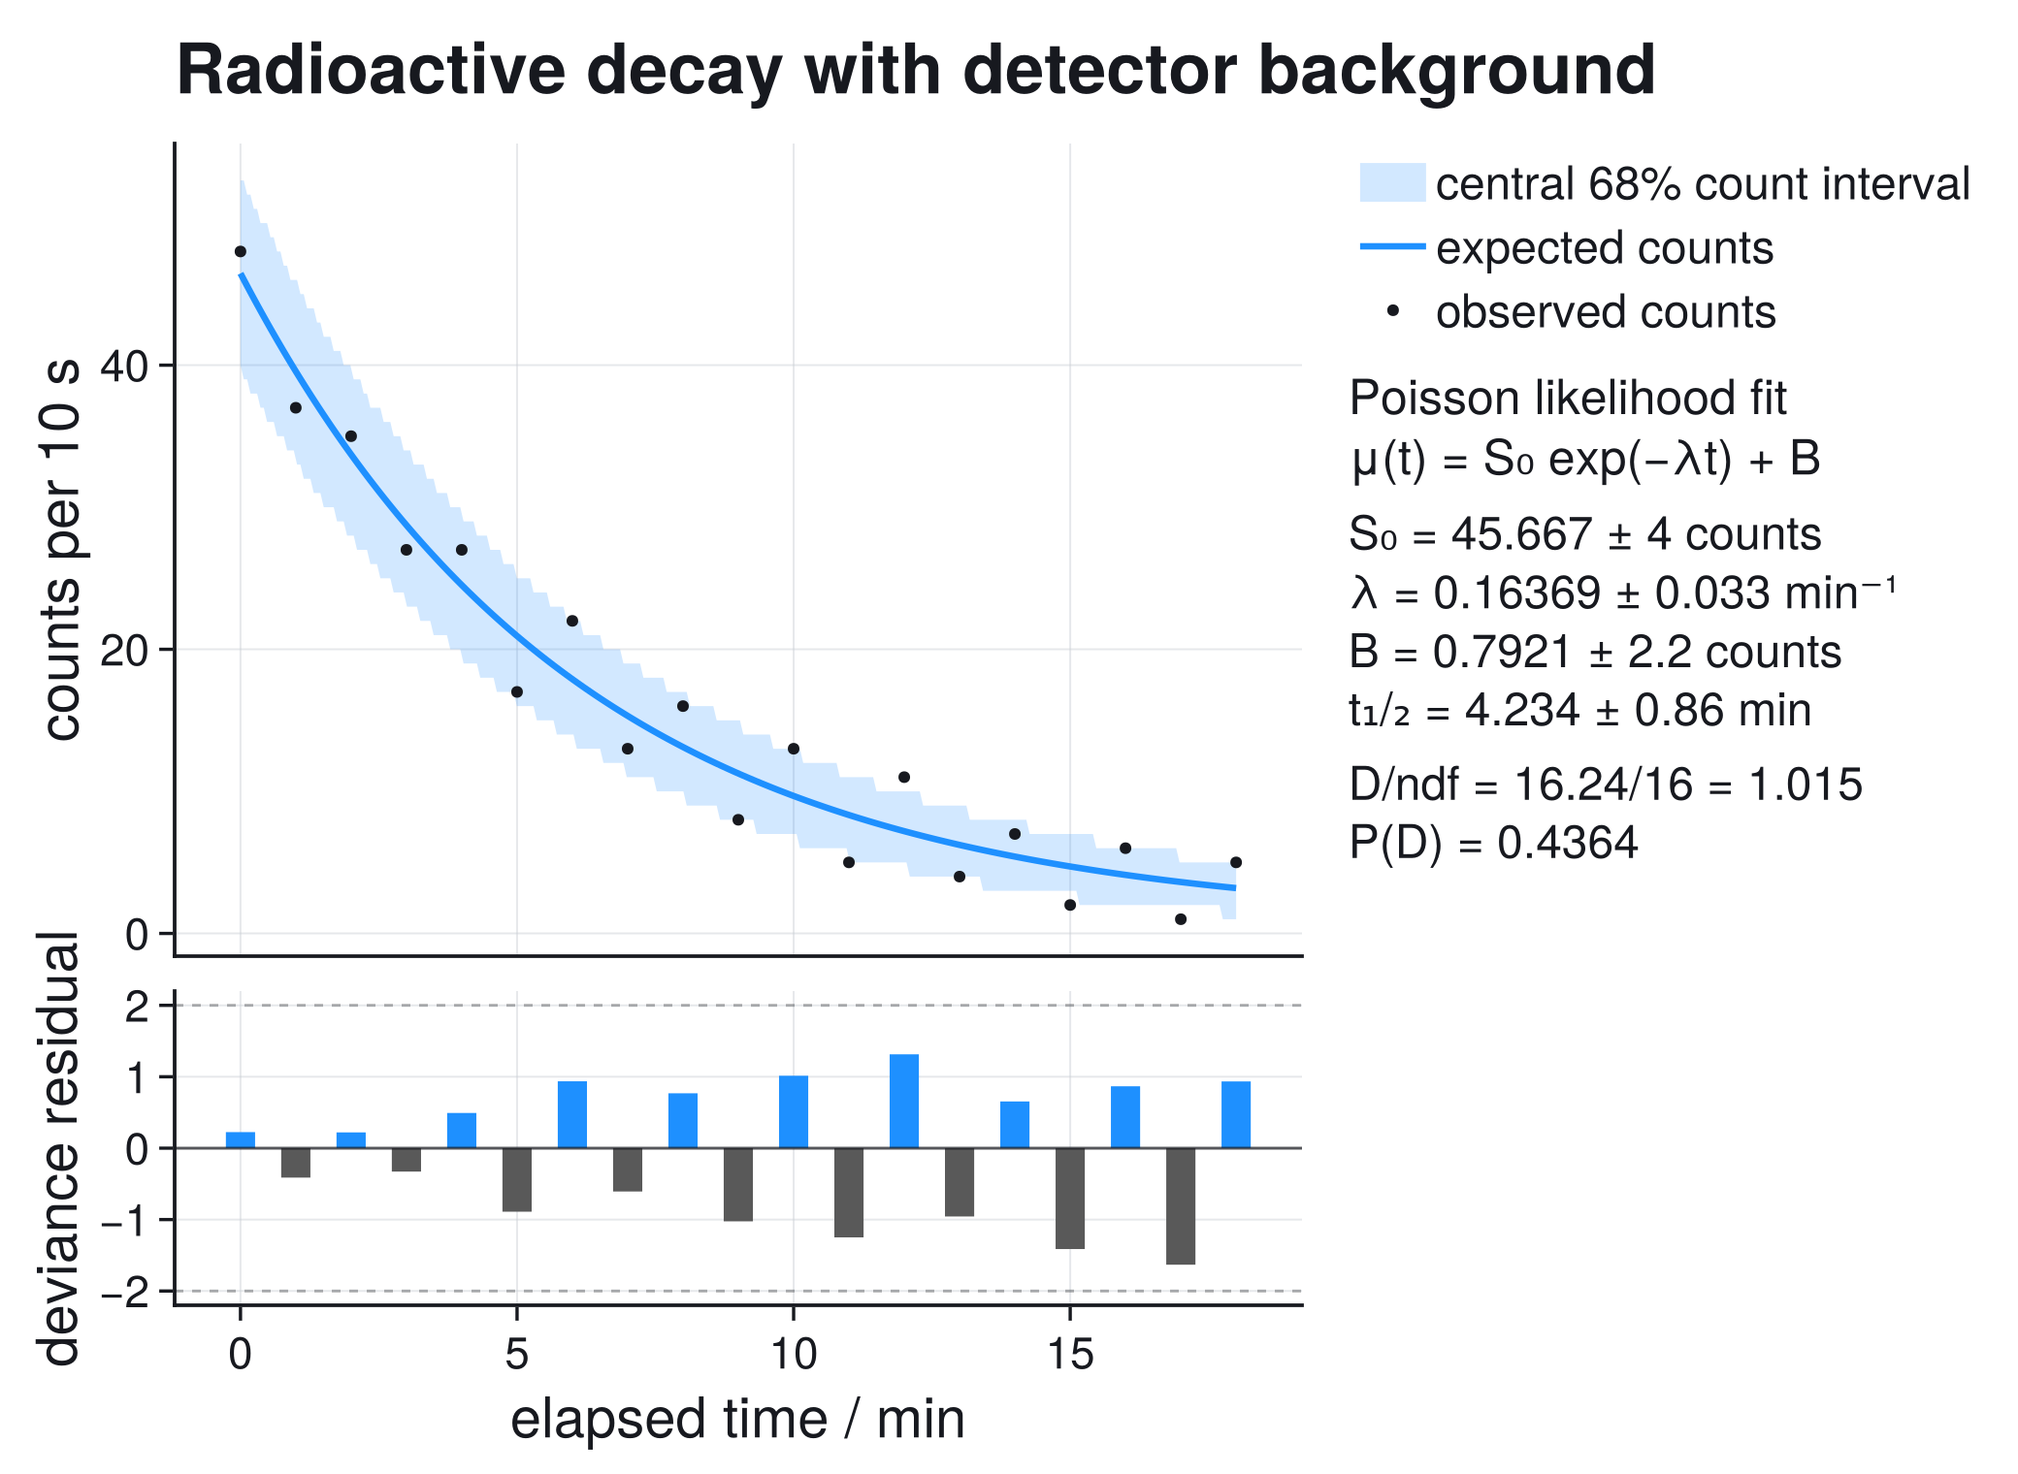
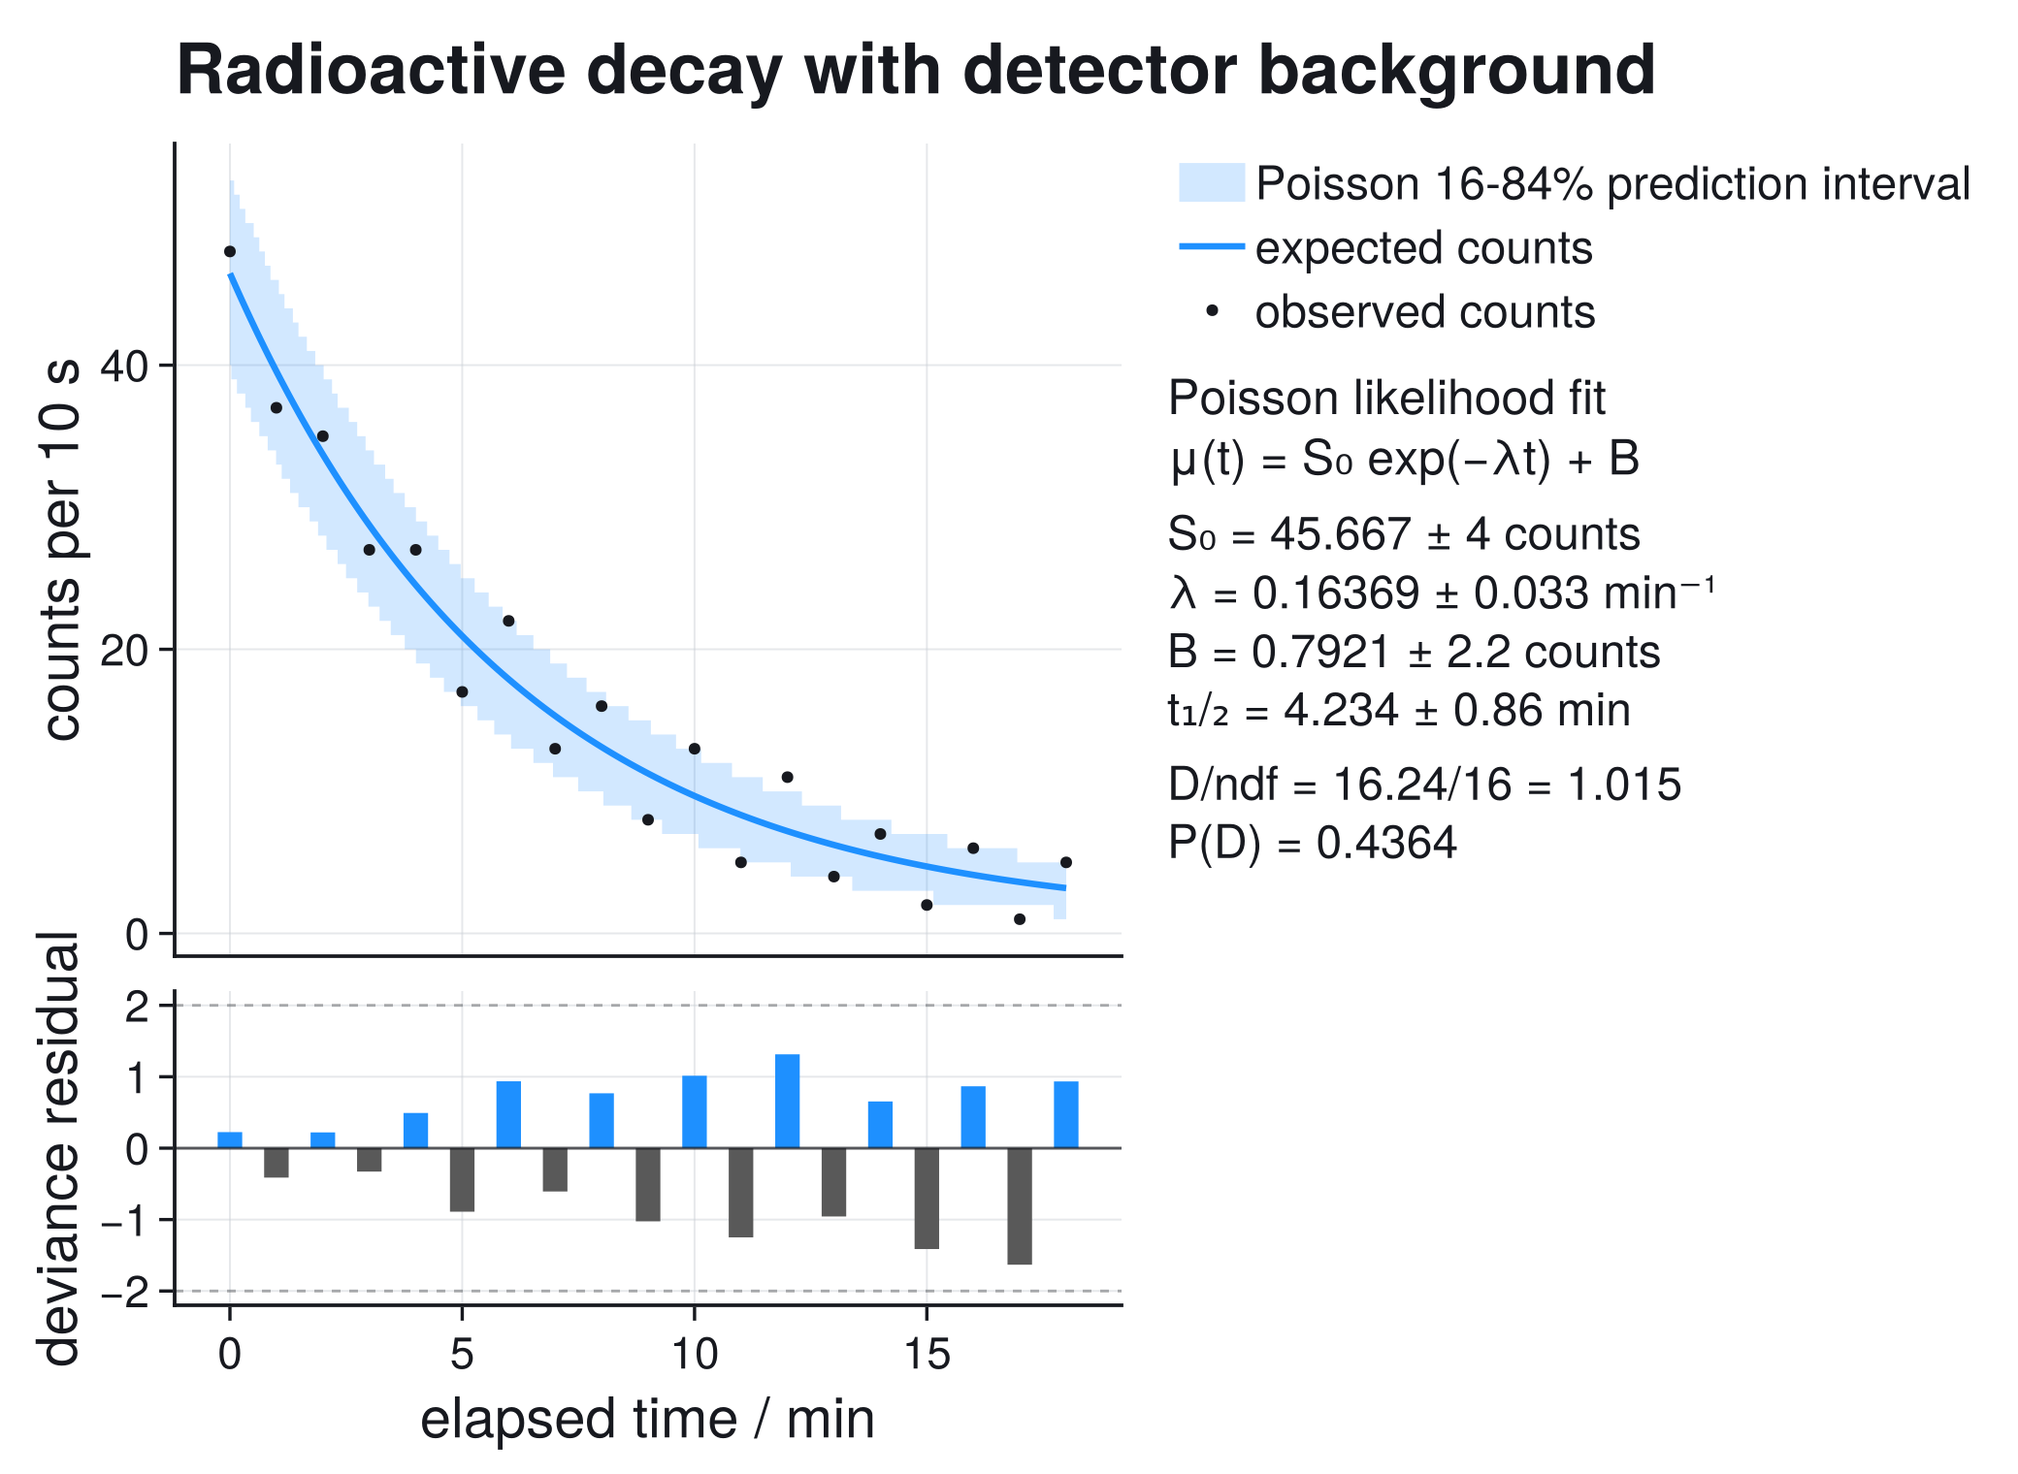
Prepare v0 documentation and release metadata

diff --git a/RELEASE_AUDIT.md b/RELEASE_AUDIT.md
@@ -10,6 +10,24 @@ Publication policy: do not push, publish, register, deploy documentation, or
 make the repository public without explicit manual approval from Amin_El_Sayed.
 Local commits on `codex/*` branches are allowed only as reviewable checkpoints.
 
+- The release-preparation slice adds the maintainer-approved MIT license,
+  contribution guidance, citation/related-work documentation, root-level
+  `CITATION.cff`, and manual GitHub Pages/TagBot workflows. Repository URL,
+  release date, and DOI remain deliberately absent until the package name and
+  target repository are approved. No remote, deployment, registration, tag, or
+  announcement has been created.
+- Every visible Quickstart and Gallery output remains byte-for-byte tied to an
+  isolated execution of its public code: the strict output gate passes 125
+  checks. The final prose/math pass corrected the frequentist degrees-of-freedom
+  wording for auxiliary measurements versus subjective priors. Documenter
+  builds without warnings, and the rendered site passes 3,209 link checks.
+- The Poisson count prediction band now uses duplicated bin boundaries, so its
+  discrete 16th/84th-percentile changes render as vertical steps rather than
+  fractional-count ramps. The page explains why late-time plateaus widen and
+  why the lower and upper quantiles jump at different times. All eight affected
+  style/panel/light-dark assets were regenerated from the real gallery script
+  and pass the 96-check byte-level visual snapshot gate.
+
 - The two maintained plot styles now use the same smaller 8.5-unit observation
   marker contract, while preserving their solid Sans and hollow TeX grammars.
   Ordinary compound-gallery plots no longer enlarge data markers locally, so
@@ -750,11 +768,14 @@ Local commits on `codex/*` branches are allowed only as reviewable checkpoints.
 - Documentation gallery PNGs now have byte-level snapshot coverage. This catches
   unintentional asset drift, but human visual review is still required for
   intentional plot style or renderer changes.
-- There is no documentation deployment workflow yet.
-- The repository still needs an explicitly chosen license and release citation
-  metadata before publication. Add the approved `LICENSE` and `CITATION.cff`
-  only after the maintainer has selected the license and reviewed the citation
-  fields; do not infer that policy from the source code.
+- A manual-only GitHub Pages workflow is prepared locally. It must not be run
+  until the target repository, final package name, and exact release candidate
+  are approved; its first deployment still requires remote observation and
+  browser review.
+- The MIT `LICENSE` and a minimal `CITATION.cff` are prepared locally. The
+  package/repository name, repository URL, release date, and DOI remain release
+  decisions and must be filled from the exact approved public release rather
+  than guessed in advance.
 - Browser screenshots can still time out on very large documentation pages.
   Use DOM/computed-style checks plus targeted static image inspection until a
   stable visual-regression workflow exists.
@@ -910,15 +931,17 @@ Local commits on `codex/*` branches are allowed only as reviewable checkpoints.
 
 ## CI And Packaging Blockers
 
-- Choose and add the release license and `CITATION.cff`; verify package name,
-  UUID, authorship, repository URL, and version metadata against the exact
-  repository that will be registered.
+- Approve the final package/repository name, then verify the existing MIT
+  license, `CITATION.cff`, UUID, authorship, repository URL, and version metadata
+  against the exact repository that will be registered.
 - Julia 1.10 is the intentional support floor. Local Julia 1.10 evidence covers
   the earlier 432-check core gate and 501-check full package suite plus the
   current 18-check in-place and 35-check structured-whitening reference slices;
   confirm the complete current 1.10/1.12 core and package matrix on GitHub
   Actions after pushing.
-- Add a docs-deploy job for GitHub Pages or the chosen static host.
+- Observe the prepared manual GitHub Pages workflow on the approved target
+  repository and review the deployed site before enabling any automatic update
+  trigger.
 - Confirm the new core/package/docs CI lanes on GitHub Actions after pushing.
 - Run the Python interoperability release gate in CI. The local opt-in gate now
   passes in an isolated `juliacall` environment, but public release claims need

diff --git a/RELEASE_CHECKLIST.md b/RELEASE_CHECKLIST.md
@@ -164,3 +164,35 @@ Before public promotion:
   `Amin-El-Sayed <78275938+Amin-El-Sayed@users.noreply.github.com>`.
 - Do not register the package, publish docs, or announce on Reddit/Discourse
   until Amin_El_Sayed has manually approved the exact release candidate.
+
+After that explicit approval, perform the external steps in this order:
+
+1. Confirm the final package name before creating the repository. Renaming after
+   General registration is substantially more disruptive.
+2. Re-authenticate GitHub CLI if needed and verify that the active login is
+   exactly `Amin-El-Sayed`; do not rely on the configured Git author alone.
+3. Create the final `<PackageName>.jl` repository under `Amin-El-Sayed`, add it
+   as the first remote, and push only the reviewed release history.
+4. Observe the complete CI matrix on GitHub. Do not substitute an older local
+   run for the target repository's checks.
+5. In repository Pages settings, select GitHub Actions as the source and run the
+   manual `Documentation Pages` workflow. Verify the deployed URLs, styles,
+   plots, and mobile/desktop layout before linking them publicly.
+6. Install the Julia Registrator GitHub App, trigger `@JuliaRegistrator register`
+   on the approved release commit, and review the generated General pull
+   request. TagBot creates the corresponding tag and GitHub release after the
+   registry version is accepted; create the first tag manually if GitHub's
+   workflow-file token restriction blocks TagBot.
+7. Archive the accepted release with Zenodo, add its DOI and release date to
+   `CITATION.cff`, and verify GitHub's rendered citation before announcing it.
+8. Publish one consistent announcement first on GitHub Releases and Julia
+   Discourse's Package Announcements category. Link the registered package,
+   versioned documentation, DOI, contributor guide, and issue tracker. Let the
+   General registry's `new-packages-feed` cover Slack/Zulip automatically; use
+   `r/Julia` only after the canonical announcement is live.
+
+The announcement should state the supported workflows, Julia versions, and
+known v0 limits in plain language. Invite reproducible bug reports, real-world
+datasets that can be redistributed, documentation corrections, and focused
+contributions. Do not claim ecosystem dominance, universal robustness, or a
+portable speed factor; link reproducible benchmark methods instead.

diff --git a/docs/src/citation.md b/docs/src/citation.md
@@ -1,0 +1,50 @@
+# Citation, License, And Related Work
+
+## Cite The Exact Software Release
+
+Scientific results should identify the software version that produced them.
+JuFitter ships a root-level `CITATION.cff`; GitHub can render it as a citation
+and export BibTeX. The first archived public release should also receive a
+Zenodo DOI, which will become the preferred stable citation target.
+
+At minimum, record:
+
+- the JuFitter version or exact Git commit;
+- the Julia version;
+- the fit entry point and cost or likelihood;
+- the uncertainty, covariance, and parameter-constraint model;
+- whether reported intervals came from local covariance or profiles.
+
+This information is more useful for reproducibility than citing an unversioned
+repository homepage.
+
+## MIT License And Citation
+
+JuFitter is released under the [MIT License](https://opensource.org/license/mit).
+The license permits use, modification, and redistribution subject to preserving
+its copyright and permission notice. Academic citation is requested as
+scientific attribution, but it is not an additional license condition.
+
+## Related Work
+
+JuFitter is an independent Julia implementation. Its emphasis on readable fit
+reports, practical diagnostics, and profile-versus-local-covariance comparisons
+was informed in part by kafe2 and its documentation:
+
+- J. Gäßler, G. Quast, D. Savoiu, and C. Verstege,
+  [*kafe2 -- a Modern Tool for Model Fitting in Physics Lab Courses*](https://arxiv.org/abs/2210.12768),
+  arXiv:2210.12768 (2022).
+
+JuFitter does not contain kafe2 code. Its numerical implementation builds on
+Julia packages including LsqFit, Optimization.jl, DifferentiationInterface,
+ForwardDiff, Distributions, QuadGK, and the optional Makie plotting ecosystem.
+A publication that depends materially on a particular upstream algorithm should
+also follow that project's citation guidance; citing JuFitter does not replace
+method-specific attribution.
+
+## Software Paper
+
+A peer-reviewed software paper is useful once the public package has external
+users, a stable interface, and an open development record. Until then, a
+versioned software DOI provides an honest citation target without implying that
+the scientific and software review has already happened.

diff --git a/docs/src/gallery/poisson_histogram.md b/docs/src/gallery/poisson_histogram.md
@@ -35,19 +35,24 @@ T_{1/2} = \frac{\log 2}{\lambda}.
 ```
 
 The observed points deliberately have no ``\sqrt n`` error bars. Such bars are
-only a large-count visual approximation, become asymmetric near zero, and
-cannot represent a zero-count observation. The shaded region is instead the
-central 68% interval of future Poisson counts predicted by the fitted model. It
-is a **prediction interval for discrete observations**, not a confidence band
-for the mean curve. It is conditional on the fitted mean and does not include
-parameter uncertainty.
+only a large-count visual approximation; near zero they cannot represent the
+strongly asymmetric sampling distribution and assign no visible uncertainty to
+a zero-count observation. The shaded region instead spans the 16th to 84th
+percentiles of future Poisson counts predicted by the fitted model. It is a
+**prediction interval for discrete observations**, not a confidence band for
+the mean curve. It is conditional on the fitted mean and does not include
+parameter uncertainty. Because counts are discrete, its actual coverage changes
+in steps and is generally not exactly 68%.
 
 The edges of this band are intentionally stepped. Poisson observations are
 integers, so the 16th and 84th percentiles can change only by whole counts as
-``\mu(t)`` varies. The plateaus and jumps are distributional, not optimizer
-noise. The renderer joins neighbouring evaluation points, so a mathematically
-vertical jump appears as a short slanted tooth. Smoothing the boundary would
-instead imply impossible fractional count quantiles.
+``\mu(t)`` varies. JuFitter therefore renders each change as a vertical edge,
+without interpolating through impossible fractional count quantiles. The
+plateaus become wider at late times because the exponential mean approaches
+the background more slowly: ``|\mathrm{d}\mu/\mathrm{d}t|`` decreases. The
+lower and upper edges jump at different times because the 16th and 84th
+percentiles cross different probability thresholds. All three features are
+properties of the fitted count distribution, not optimizer noise.
 
 ## Data
 

diff --git a/CONTRIBUTING.md b/CONTRIBUTING.md
@@ -1,0 +1,41 @@
+# Contributing
+
+JuFitter welcomes bug reports, scientific examples, documentation corrections,
+performance evidence, and focused code contributions. The package treats
+statistical meaning and failure behavior as part of the public API.
+
+## Report A Problem
+
+Please include:
+
+- a minimal executable Julia example;
+- Julia and JuFitter versions;
+- the fit entry point, uncertainty model, and solver controls used;
+- the complete error or diagnostic output;
+- small redistributable data, or a synthetic reproduction when the original
+  data cannot be shared;
+- the expected behavior and why it is scientifically justified.
+
+Do not post confidential measurements, credentials, or private file paths.
+
+## Propose A Change
+
+Open an issue before a large architectural change. A numerical or statistical
+change should state its mathematical convention, assumptions, failure cases,
+and an analytic or independent numerical reference. A performance claim needs
+a reproducible benchmark on named hardware; a screenshot alone is not evidence.
+
+Keep pull requests narrow. New public behavior needs a docstring, focused test,
+and documentation update. Do not commit generated `docs/build/`, example output,
+local benchmark output, or unrelated formatting changes.
+
+## Development Workflow
+
+Read [DEVELOPMENT.md](DEVELOPMENT.md) for branches and test commands and
+[MAINTAINERS.md](MAINTAINERS.md) for numerical and plotting invariants. Run the
+focused gate for the changed subsystem and `git diff --check` before opening a
+pull request. The maintainer may request the broader package gate for changes
+that affect statistical semantics or shared architecture.
+
+By contributing, you agree that your contribution is licensed under the
+repository's MIT License.

diff --git a/README.md b/README.md
@@ -162,6 +162,20 @@ Known limitations are explicit:
 - Python interoperability is planned through JuliaCall/PythonCall and has an
   opt-in gate, but it is not a release claim yet.
 
+## Contributing
+
+Bug reports, scientific examples, documentation corrections, and focused code
+contributions are welcome. See [CONTRIBUTING.md](CONTRIBUTING.md) for the
+information needed to reproduce a numerical issue and the evidence expected for
+statistical or performance changes.
+
+## License And Citation
+
+JuFitter is licensed under the [MIT License](LICENSE). If it contributes to
+published research, please cite the exact version using [CITATION.cff](CITATION.cff).
+The documentation explains [citation, related work, and method-specific
+attribution](docs/src/citation.md).
+
 ## Development Gates
 
 Fast checks:

diff --git a/docs/src/gallery/linear_calibration.md b/docs/src/gallery/linear_calibration.md
@@ -199,8 +199,8 @@ Do not treat the right-side parameter panel as a substitute for residual
 inspection. A small p-value, a very large p-value, or structured pulls can all
 indicate that the uncertainty model is incomplete.
 
-Do not increase plot margins, hide bands, or round numbers until the statistical
-meaning is clear. Plot polish comes after the measurement model is defensible.
+Plot formatting cannot repair an incomplete uncertainty model. Establish the
+statistical meaning before polishing the presentation.
 
 Next useful pages: [XY Uncertainties](@ref), [Full Covariance](@ref), and
 [Fitting for Practitioners](@ref).

diff --git a/docs/src/fitting_for_practitioners.md b/docs/src/fitting_for_practitioners.md
@@ -245,9 +245,11 @@ parameters,
 \mathrm{ndf} \approx N-k.
 ```
 
-Independent Gaussian priors or correlated parameter constraints add genuine
-external observations to this count. Fixed parameters are not free parameters.
-When the assumptions are valid,
+Gaussian terms that represent independent auxiliary measurements add genuine
+observations to this count; a full-rank, ``q``-dimensional correlated auxiliary
+measurement adds ``q``. A subjective prior does not justify extra frequentist
+degrees of freedom. Fixed parameters are not free parameters. When the
+assumptions are valid,
 
 ```math
 E[\chi^2]=\mathrm{ndf},

diff --git a/docs/src/gallery/photoelectric_threshold.md b/docs/src/gallery/photoelectric_threshold.md
@@ -416,9 +416,9 @@ For this workflow, the first checks are practical:
   is sparse, because local covariance can look too confident near a kink or
   bound.
 
-The figure uses a local 1σ band. If a diagnostic dashboard
-reports a review or stop condition, the next step is not styling the plot; it is
-checking the model range, uncertainty model, and profile intervals.
+The figure uses a local 1σ band. If a diagnostic dashboard reports a `review`
+or `critical` status, the next step is not styling the plot; it is checking the
+model range, uncertainty model, and profile intervals.
 
 ## What Can Go Wrong
 
